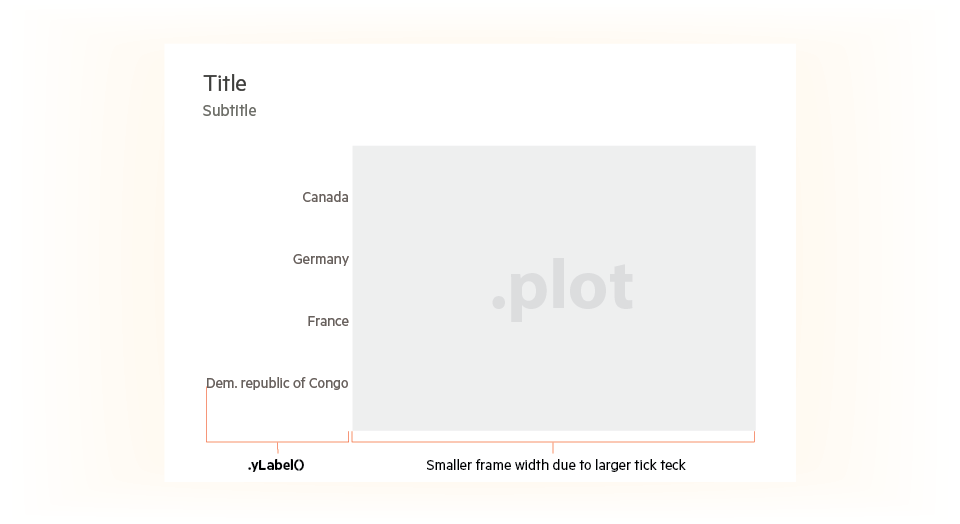
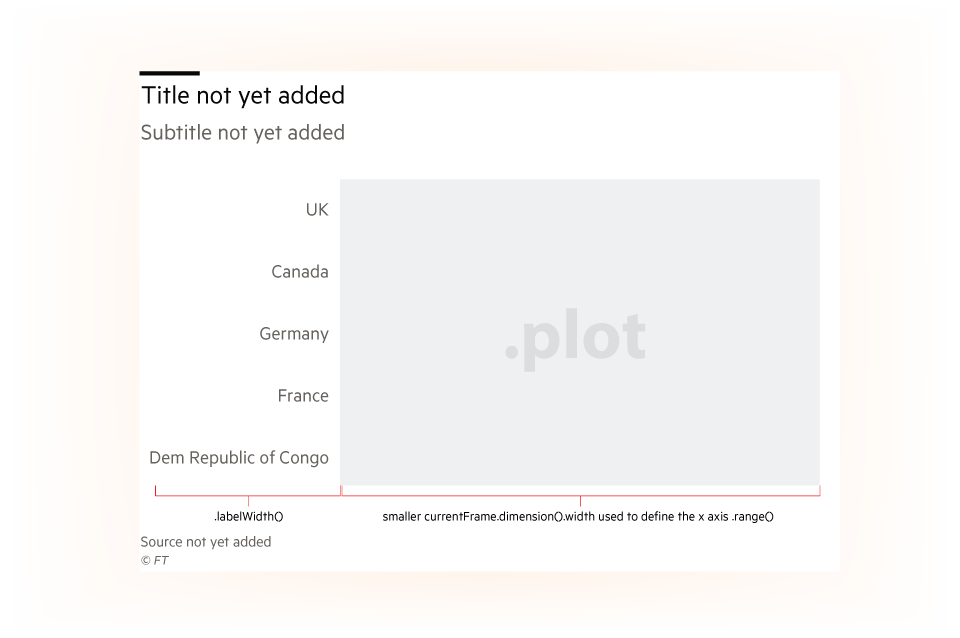
Update yLabel small jpg

diff --git a/README.md b/README.md
@@ -36,7 +36,7 @@ Create and call a y-axis first, as it returms <b>.labelWidth()</b> that holds a 
 
 yOrdinal axis where the width of 'Switzerland' is returned in <b>.labelWidth()</b>
 ![alt tag](https://github.com/ft-interactive/g-axis/blob/master/images/yLabel-large.png)
-The tick 'Dem Republic of Congo'is much longer so will leave less space for the x-axis <b>.domain()</b>
+The tick 'Dem Republic of Congo' is much longer so will leave less space for the x axis <b>.range()</b>
 ![alt tag](https://github.com/ft-interactive/g-axis/blob/master/images/yLabel-small.png)
 
 For more detail on <b>.labelWidth()</b> and its use in positioning see:
